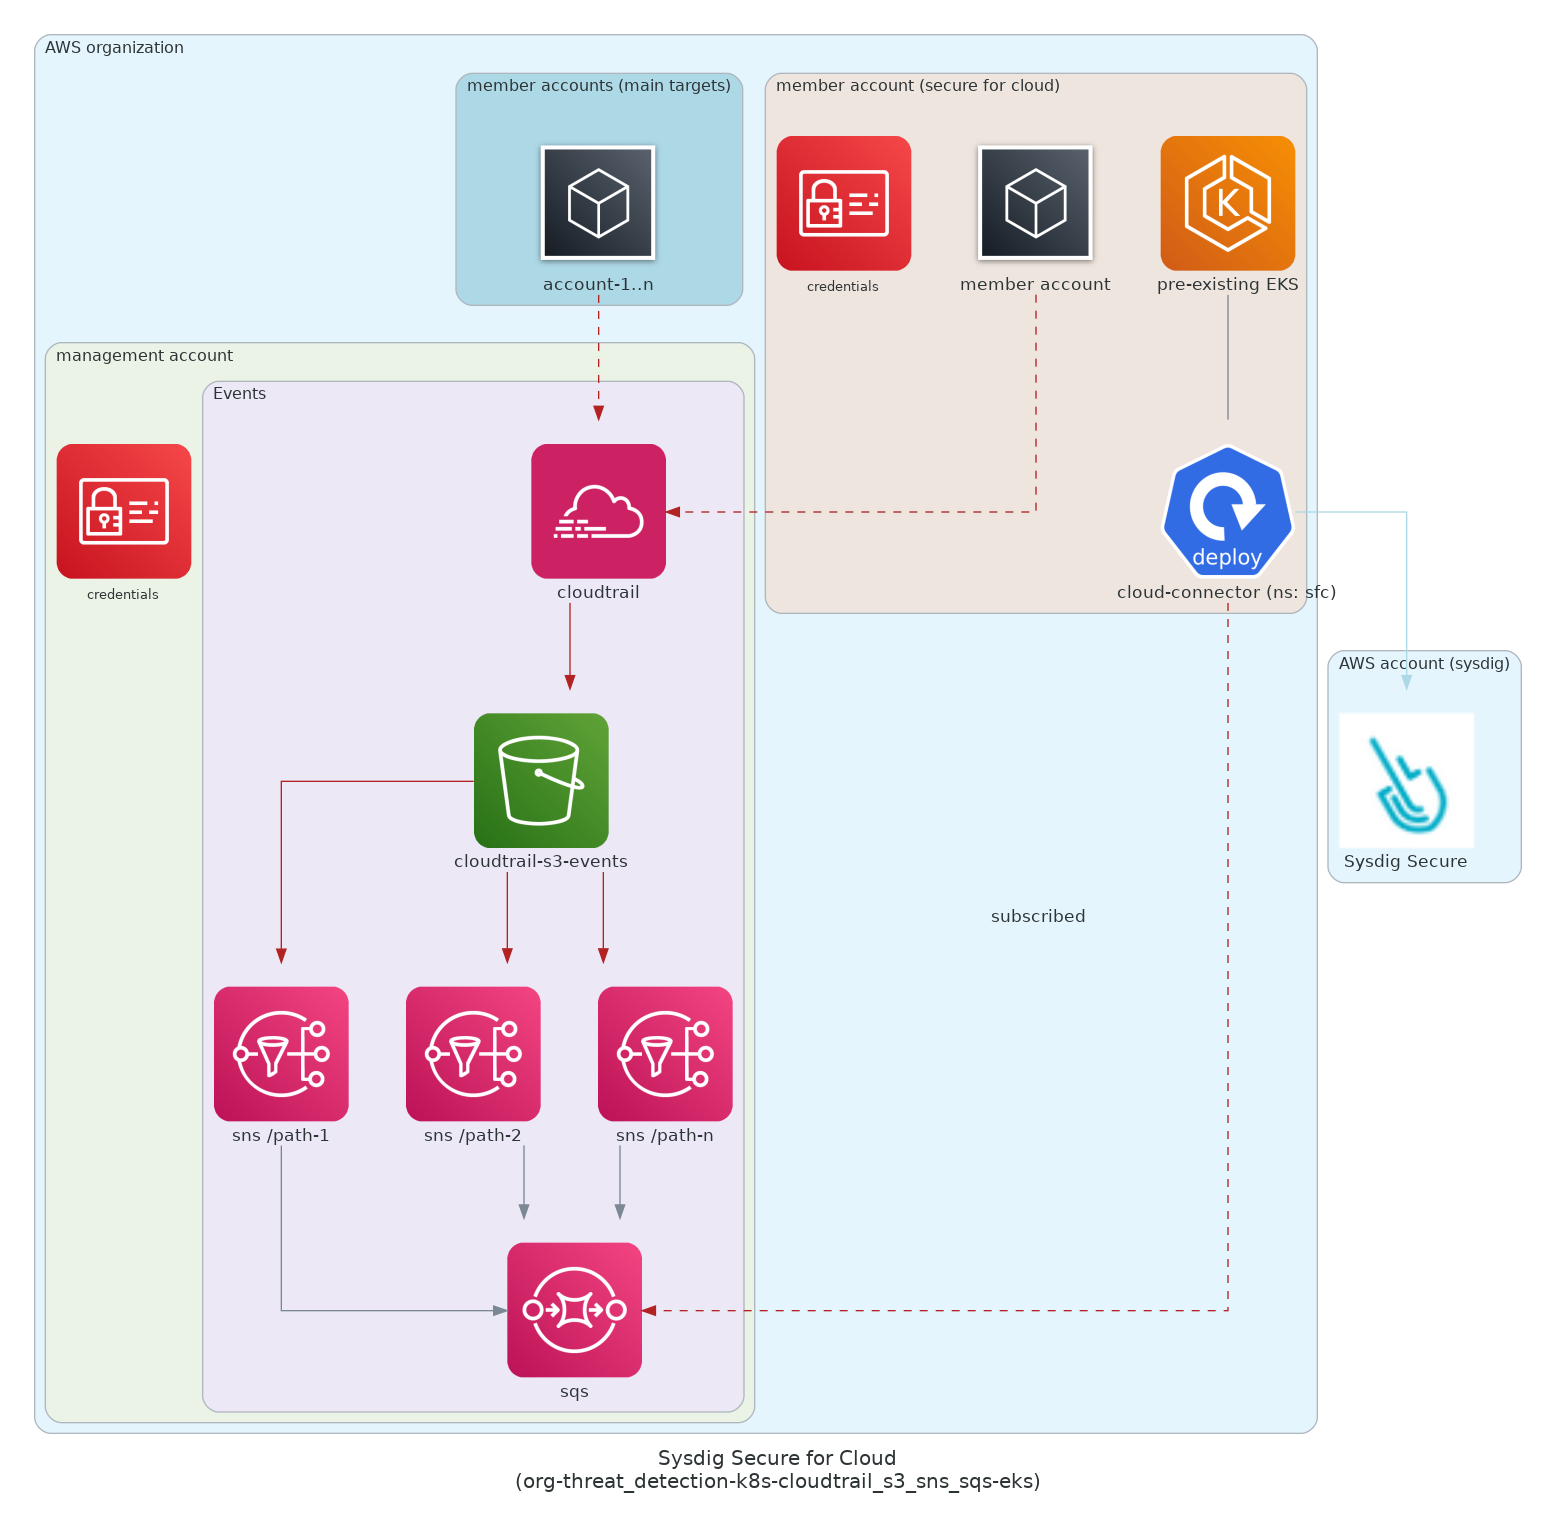
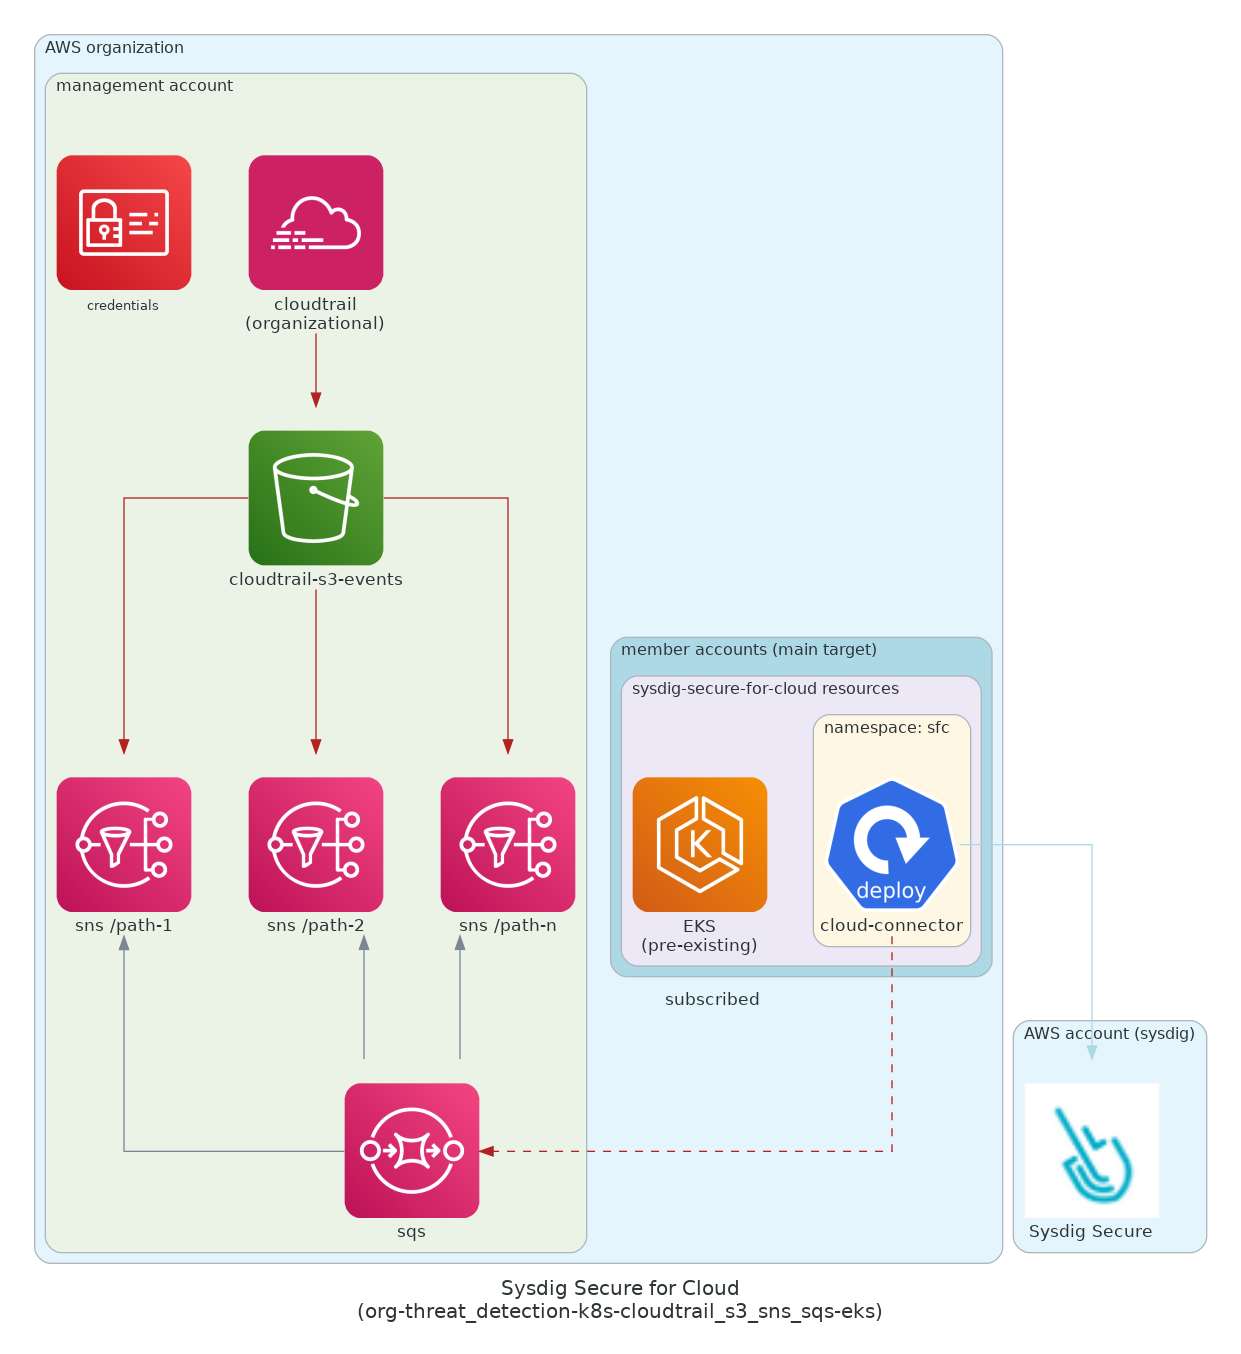
chore(docs): add diagram to single-k8s

diff --git a/examples-internal/organizational-k8s-threat-reuse_cloudtrail/diagram.py b/examples-internal/organizational-k8s-threat-reuse_cloudtrail/diagram.py
@@ -33,36 +33,34 @@ color_sysdig="lightblue"
 
 with Diagram("Sysdig Secure for Cloud{}(org-threat_detection-k8s-cloudtrail_s3_sns_sqs-eks)".format("\n"), graph_attr=diagram_attr, filename="diagram", show=True, direction="TB"):
 
+    with Cluster("AWS account (sysdig)"):
+        sds = Custom("Sysdig Secure", "../../resources/diag-sysdig-icon.png")
+
     with Cluster("AWS organization"):
 
-        with Cluster("member accounts (main targets)", graph_attr={"bgcolor":"lightblue"}):
-            member_accounts = General("account-1..n")
+        with Cluster("member accounts (main target)", graph_attr={"bgcolor":"lightblue"}):
+#             resources = General("resources-1..n\n(events)")
 
-
-        with Cluster("member account (secure for cloud)", graph_attr={"bgcolor":"seashell2"}):
-            member_account = General("member account")
-            management_credentials  = IAM("credentials", fontsize="10")
-            eks = EKS("pre-existing EKS")
-            cc_deployment = Deployment("cloud-connector (ns: sfc)")
-            eks - cc_deployment
+            with Cluster("sysdig-secure-for-cloud resources"):
+                eks = EKS("EKS\n(pre-existing)")
+                with Cluster("namespace: sfc"):
+                    cc_deployment = Deployment("cloud-connector")
+                    eks_deployments = [cc_deployment]
 
 
         with Cluster("management account"):
+#             resources2 = General("resources-1..n\n(events)")
 
-            with Cluster("Events"):
-                cloudtrail          = Cloudtrail("cloudtrail", shape="plaintext")
-                cloudtrail_s3       = S3("cloudtrail-s3-events")
-                sns                 = [SNS("sns /path-1"), SNS("sns /path-2"), SNS("sns /path-n")]
-                sqs                 = SQS("sqs")
+            cloudtrail          = Cloudtrail("cloudtrail\n(organizational)", shape="plaintext")
+            cloudtrail_s3       = S3("cloudtrail-s3-events")
+            sns                 = [SNS("sns /path-1"), SNS("sns /path-2"), SNS("sns /path-n")]
+            sqs                 = SQS("sqs")
+            cloudtrail >> Edge(color=color_event) >> cloudtrail_s3 >> Edge(color=color_event) >> sns << sqs
+#             resources2 >> Edge(color=color_event, style="dashed") >>  cloudtrail
 
-            cloudtrail >> Edge(color=color_event) >> cloudtrail_s3 >> Edge(color=color_event) >> sns >> sqs
             management_credentials  = IAM("credentials", fontsize="10")
 
         cc_deployment >>  Edge(color=color_event, style="dashed", label="subscribed") >> sqs
-        member_accounts >> Edge(color=color_event, style="dashed") >>  cloudtrail
-        member_account >>  Edge(color=color_event, style="dashed") >>  cloudtrail
-
-    with Cluster("AWS account (sysdig)"):
-        sds = Custom("Sysdig Secure", "../../resources/diag-sysdig-icon.png")
+#         resources >> Edge(color=color_event, style="dashed") >>  cloudtrail
 
     cc_deployment >> Edge(color=color_sysdig) >> sds
